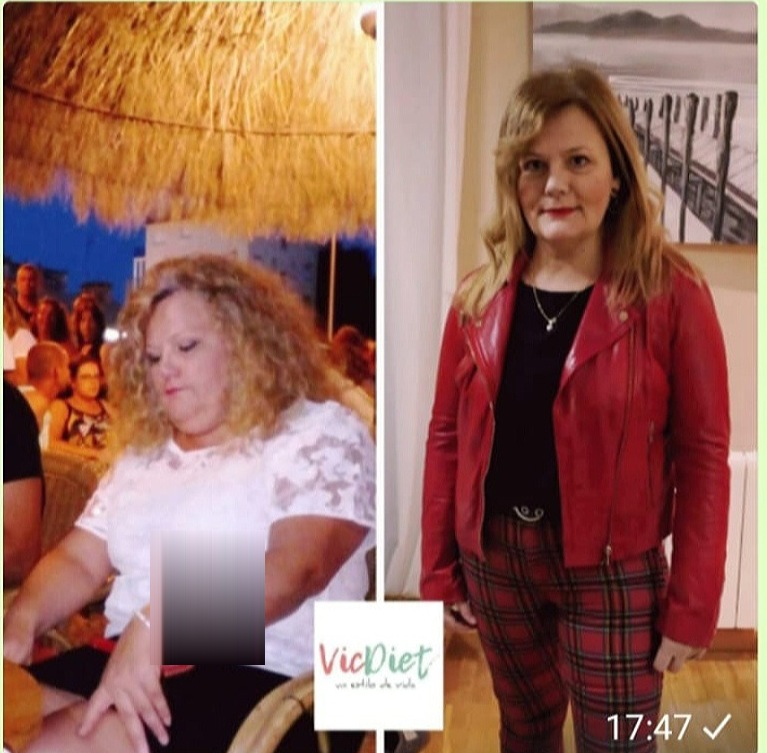
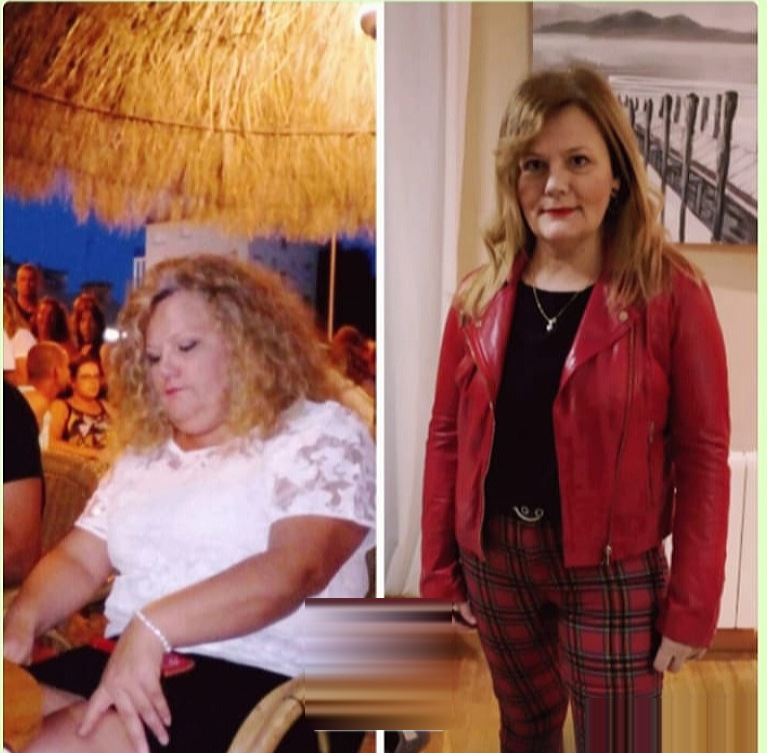
Foto Mari 12 semanas: eliminar VicDiet y timestamp + añadir apellido Porcel Cascales

Changed region(s): [[0.3898, 0.7942, 0.5997, 0.9774], [0.1799, 0.7025, 0.3598, 0.8858], [0.7497, 0.9163, 0.9896, 1.0]]

diff --git a/index.html b/index.html
@@ -959,7 +959,7 @@ img{display:block}
         </div>
         <div class="trf-body">
           <div class="trf-result">Transformación completa · 12 semanas</div>
-          <div class="trf-meta">Mari · Ciudad Real · 12 semanas</div>
+          <div class="trf-meta">Mari Porcel Cascales · Ciudad Real · 12 semanas</div>
           <p class="trf-quote">"Muchas gracias Victoria, y gracias a este maravilloso y saludable programa... Soy una persona nueva con muchas ganas de vivir. Por fin soy feliz. Que se anime todas estas personas que SÍ SE PUEDE."</p>
         </div>
       </div>
